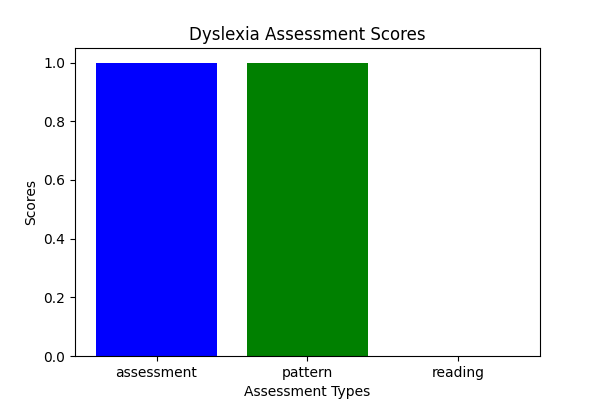
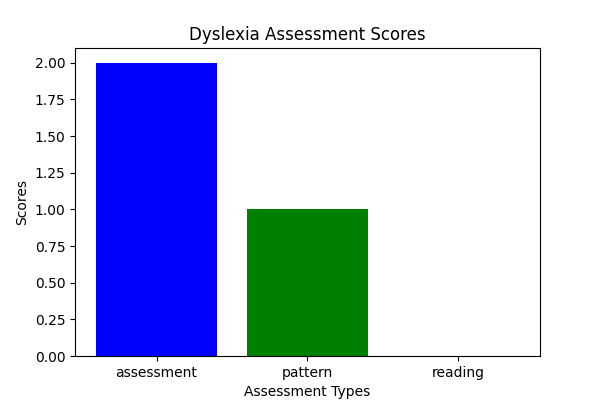
questions selection added

diff --git a/templates/reading.html b/templates/reading.html
@@ -31,7 +31,7 @@
         ];
 
         let selectedParagraphs = [];
-        while (selectedParagraphs.length < 2) {
+        while (selectedParagraphs.length < 5) {
             let randomIndex = Math.floor(Math.random() * paragraphs.length);
             if (!selectedParagraphs.includes(paragraphs[randomIndex])) {
                 selectedParagraphs.push(paragraphs[randomIndex]);

diff --git a/main.py b/main.py
@@ -134,13 +134,13 @@ def onboarding():
 @app.route('/get_questions')
 def get_questions():
     questions_collection = list(db.Assessment.find({}, {"_id": 0})) 
-    shuffled_questions = random.sample(questions_collection, min(2, len(questions_collection)))  
+    shuffled_questions = random.sample(questions_collection, min(20, len(questions_collection)))  
     return jsonify(shuffled_questions)
 
 @app.route('/get_patterns')
 def get_patterns():
     patterns_collection = list(db.Pattern.find({}, {"_id": 0})) 
-    shuffled_patterns = random.sample(patterns_collection, min(2, len(patterns_collection)))
+    shuffled_patterns = random.sample(patterns_collection, min(20, len(patterns_collection)))
     return jsonify(shuffled_patterns)
 
 if __name__ == '__main__':
